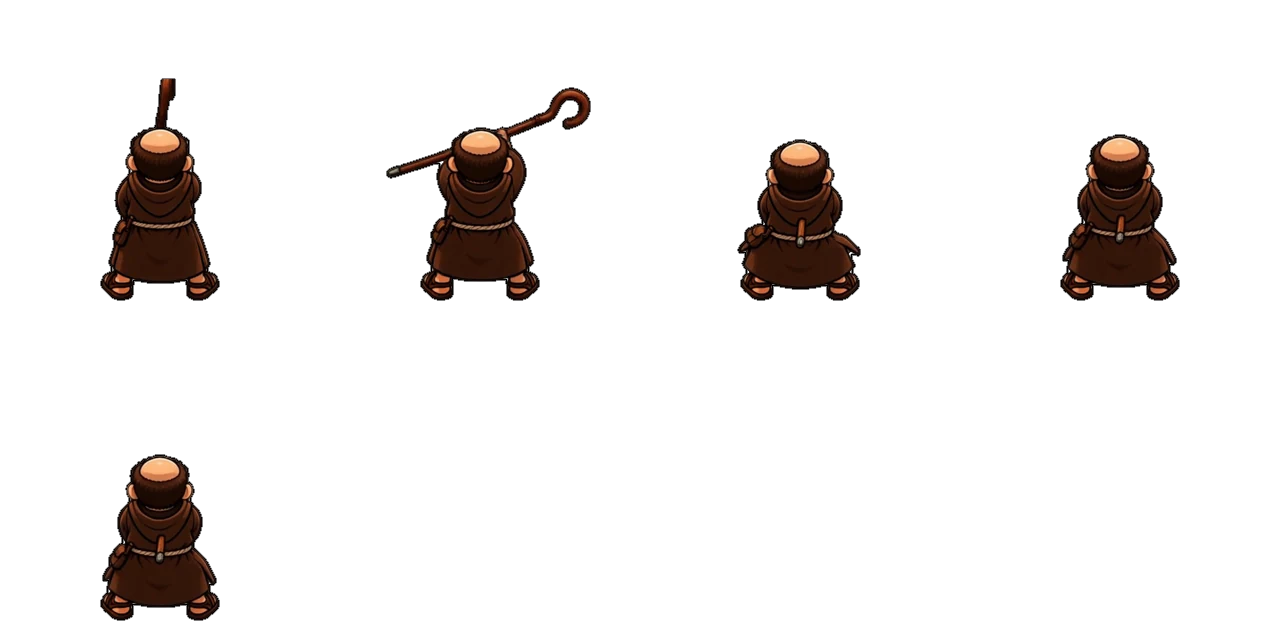
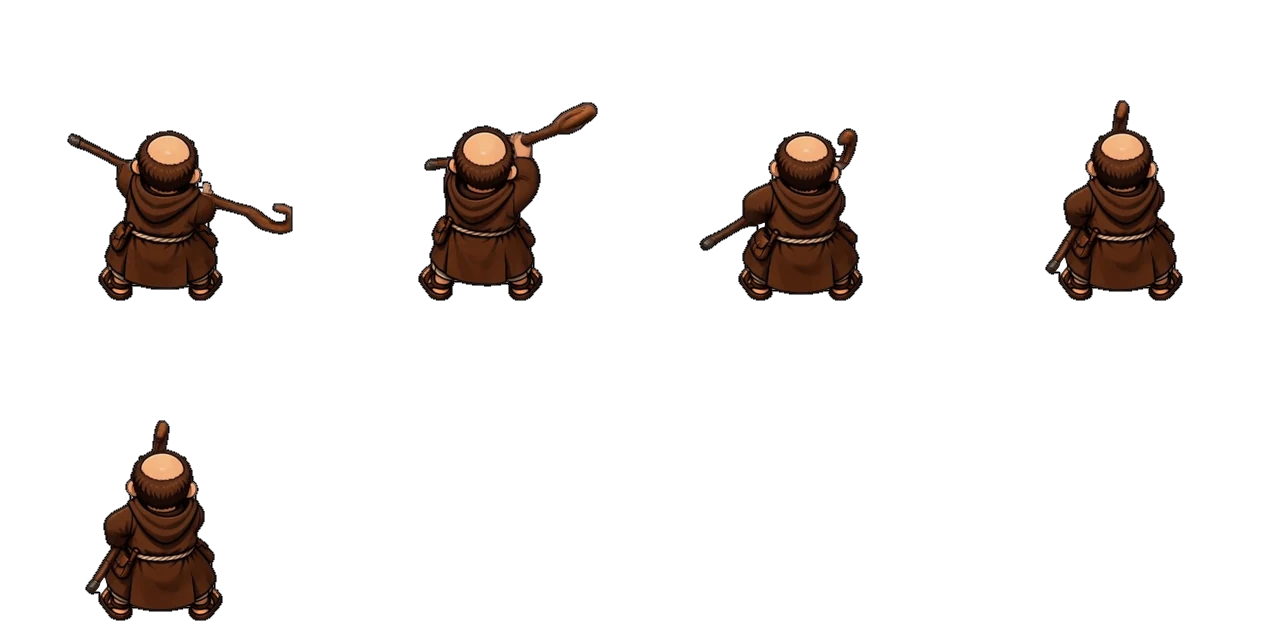
Atac amunt amb el basto refet des de basto_v1 (fotogrames 3, 2, 4, 5, 5): el basto surt a tots els fotogrames i el gir va de dreta a esquerra; sw runna-132

diff --git a/sw.js b/sw.js
@@ -9,7 +9,7 @@
  * No hi ha cap llista de fitxers: es guarda el que el joc va demanant mentre es juga (uns 50 MB com a molt).
  * Per esborrar el que ha guardat: puja el número de VERSIO (es buida la memòria de les versions anteriors).
  */
-const VERSIO = 'runna-131';
+const VERSIO = 'runna-132';
 
 self.addEventListener('install', () => self.skipWaiting());
 

diff --git a/eines/fer_atac_arma.py b/eines/fer_atac_arma.py
@@ -25,8 +25,12 @@ FOT = {'basto': [2, 3, 4, 5, 5], 'tiller': [2, 3, 4, 5, 5], 'espasa': [2, 3, 4, 
 # ben visible i sencera de dreta a esquerra (fotogrames 2: dreta, 8, 4 i 5: a l'esquerra, 3: tot a l'esquerra).
 # L'espasa 'up' (vista d'esquena): el full de 2a generació l'amagava i el de la 3a (espasa_up_v3) sortia amb l'hàbit massa fosc i l'espasa a l'esquena. Es fa servir un full triat
 # a mà (espasa_up_v4): només els tres primers fotogrames, els únics on surt l'espasa (0: baixa al costat, 1 i 2: alçada), i la tornada per completar els 5 del joc.
-ORIGEN_EXC = {('tiller', 'up'): 'tiller_v1', ('espasa', 'up'): 'espasa_up_v4'}
-FOT_EXC = {('tiller', 'up'): [2, 8, 4, 5, 3], ('espasa', 'up'): [0, 1, 2, 1, 0]}
+# El bastó 'up' també fa servir la 1a generació (basto_v1): a la 2a el bastó només surt als dos primers fotogrames i a la resta s'amaga darrere el cap. A basto_v1 surt a tots els 16.
+# Els fotogrames 3, 2, 4, 5 donen un gir continu de la punta del bastó, de dreta a esquerra (angle de la vara: ~-10°, 15°, 37°, 67°), amb el bastó visible a tots; l'últim es repeteix (el 0 té la punta tallada per la vora de l'original).
+ORIGEN_EXC = {('tiller', 'up'): 'tiller_v1', ('espasa', 'up'): 'espasa_up_v4', ('basto', 'up'): 'basto_v1'}
+FOT_EXC = {('tiller', 'up'): [2, 8, 4, 5, 3], ('espasa', 'up'): [0, 1, 2, 1, 0], ('basto', 'up'): [3, 2, 4, 5, 5]}
+# Fotogrames amb què es mesura l'alçada del cos (per defecte 12-15, on l'arma és a les mans). A basto_v1 'up' la gafa del bastó sobresurt per sobre del cap en aquests: es mesura amb el 3 i el 4.
+ESCALA_FOTS = {('basto', 'up'): (3, 4)}
 CENTRAL = set()        # direccions on l'escala del cos es mesura només amb les columnes del cap (quan l'arma sobresurt per sobre del cap)
 SRC, CEL = 384, 320         # fotograma d'origen i cel·la de sortida (més gran que abans, perquè l'arma no es talli)
 COS = 170.0                  # alçada que ha de fer el cos de l'Ineu a la cel·la (com als fulls de caminar reduïts)
@@ -73,11 +77,11 @@ def centre_peus(fot, ref=None, antic=False):
     else: g = max(grups, key=lambda g: banda[:, g[0]:g[1] + 1].sum())
     return float(g[0] + g[1]) / 2
 
-def escala(im, arma, central=False):
+def escala(im, arma, central=False, fots=(12, 13, 14, 15)):
     # Alçada del cos = dels peus (mediana de la fila més baixa) al cap (mediana de la fila més alta dels fotogrames finals, on l'arma és a l'alçada de les mans o avall).
     # Cada generació de AutoSprite fa el personatge d'una mida diferent (l'espasa, ~310 px; el bastó i la branca, 250-270), per això es mesura a cada full.
     tops = []
-    for i in (12, 13, 14, 15):
+    for i in fots:
         al = np.array(fotograma(im, i).split()[3]) > 24
         if central:
             cx = np.where(al[-60:].any(axis=0))[0]; c = (cx.min() + cx.max()) // 2        # centre dels peus
@@ -92,7 +96,7 @@ def main():
             if filtre and f'{arma}:{d}' not in filtre: continue
             fots = FOT_EXC.get((arma, d), fots0)
             im = Image.open(ORIGEN / ORIGEN_EXC.get((arma, d), arma) / f'{d}.png').convert('RGBA')
-            pf = peus(im, range(16)); K = escala(im, arma, (arma, d) in CENTRAL)
+            pf = peus(im, range(16)); K = escala(im, arma, (arma, d) in CENTRAL, ESCALA_FOTS.get((arma, d), (12, 13, 14, 15)))
             n = len(fots); cols = 4; files = (n + cols - 1) // cols
             out = Image.new('RGBA', (cols * CEL, files * CEL), (0, 0, 0, 0))
             # només a la branca en diagonal avall: la fulla baixa fins als peus (a les altres, el càlcul antic ja anava bé)
